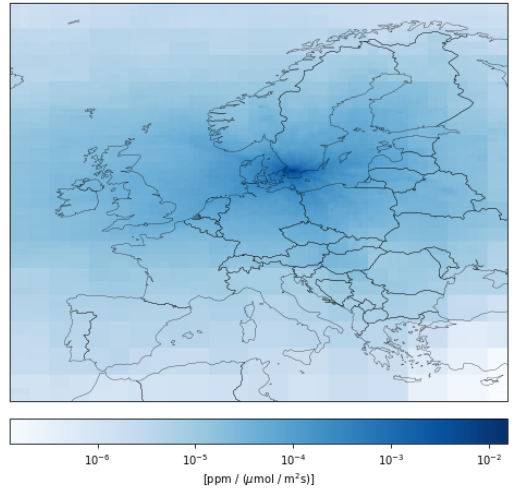
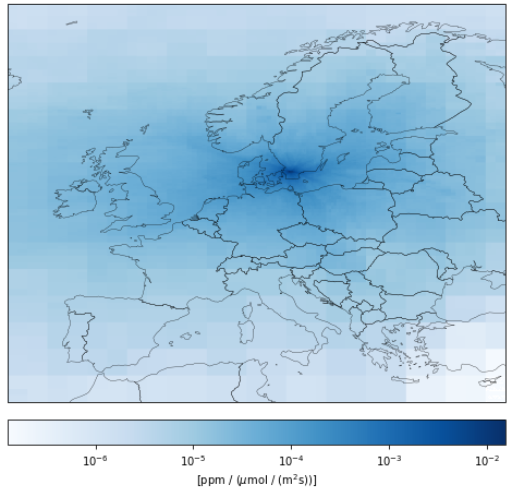
updates log scale unit

diff --git a/notebooks/icos_jupyter_notebooks/network_characterization/gui_percent_aggregate_footprints.py b/notebooks/icos_jupyter_notebooks/network_characterization/gui_percent_aggregate_footprints.py
@@ -157,7 +157,7 @@ def update_func(button_c):
     
 
     ###added: orig:
-    functions.plot_maps(fp[0], load_lon, load_lat, colors='Blues', unit='[ppm / ($\mu$mol / m$^{2}$s)]', title=map_title1, pngfile=pngfile1, date_time_predefined=date_time, linlog='log10')
+    functions.plot_maps(fp[0], load_lon, load_lat, colors='Blues', unit='[ppm / ($\mu$mol / (m$^{2}$s))]', title=map_title1, pngfile=pngfile1, date_time_predefined=date_time, linlog='log10')
     
     functions.plot_maps(footprint_0_90, load_lon, load_lat, colors='Blues_r', vmin=10, vmax=90, percent = True, unit='%', title=map_title2, pngfile=pngfile2, date_time_predefined=date_time)
  
